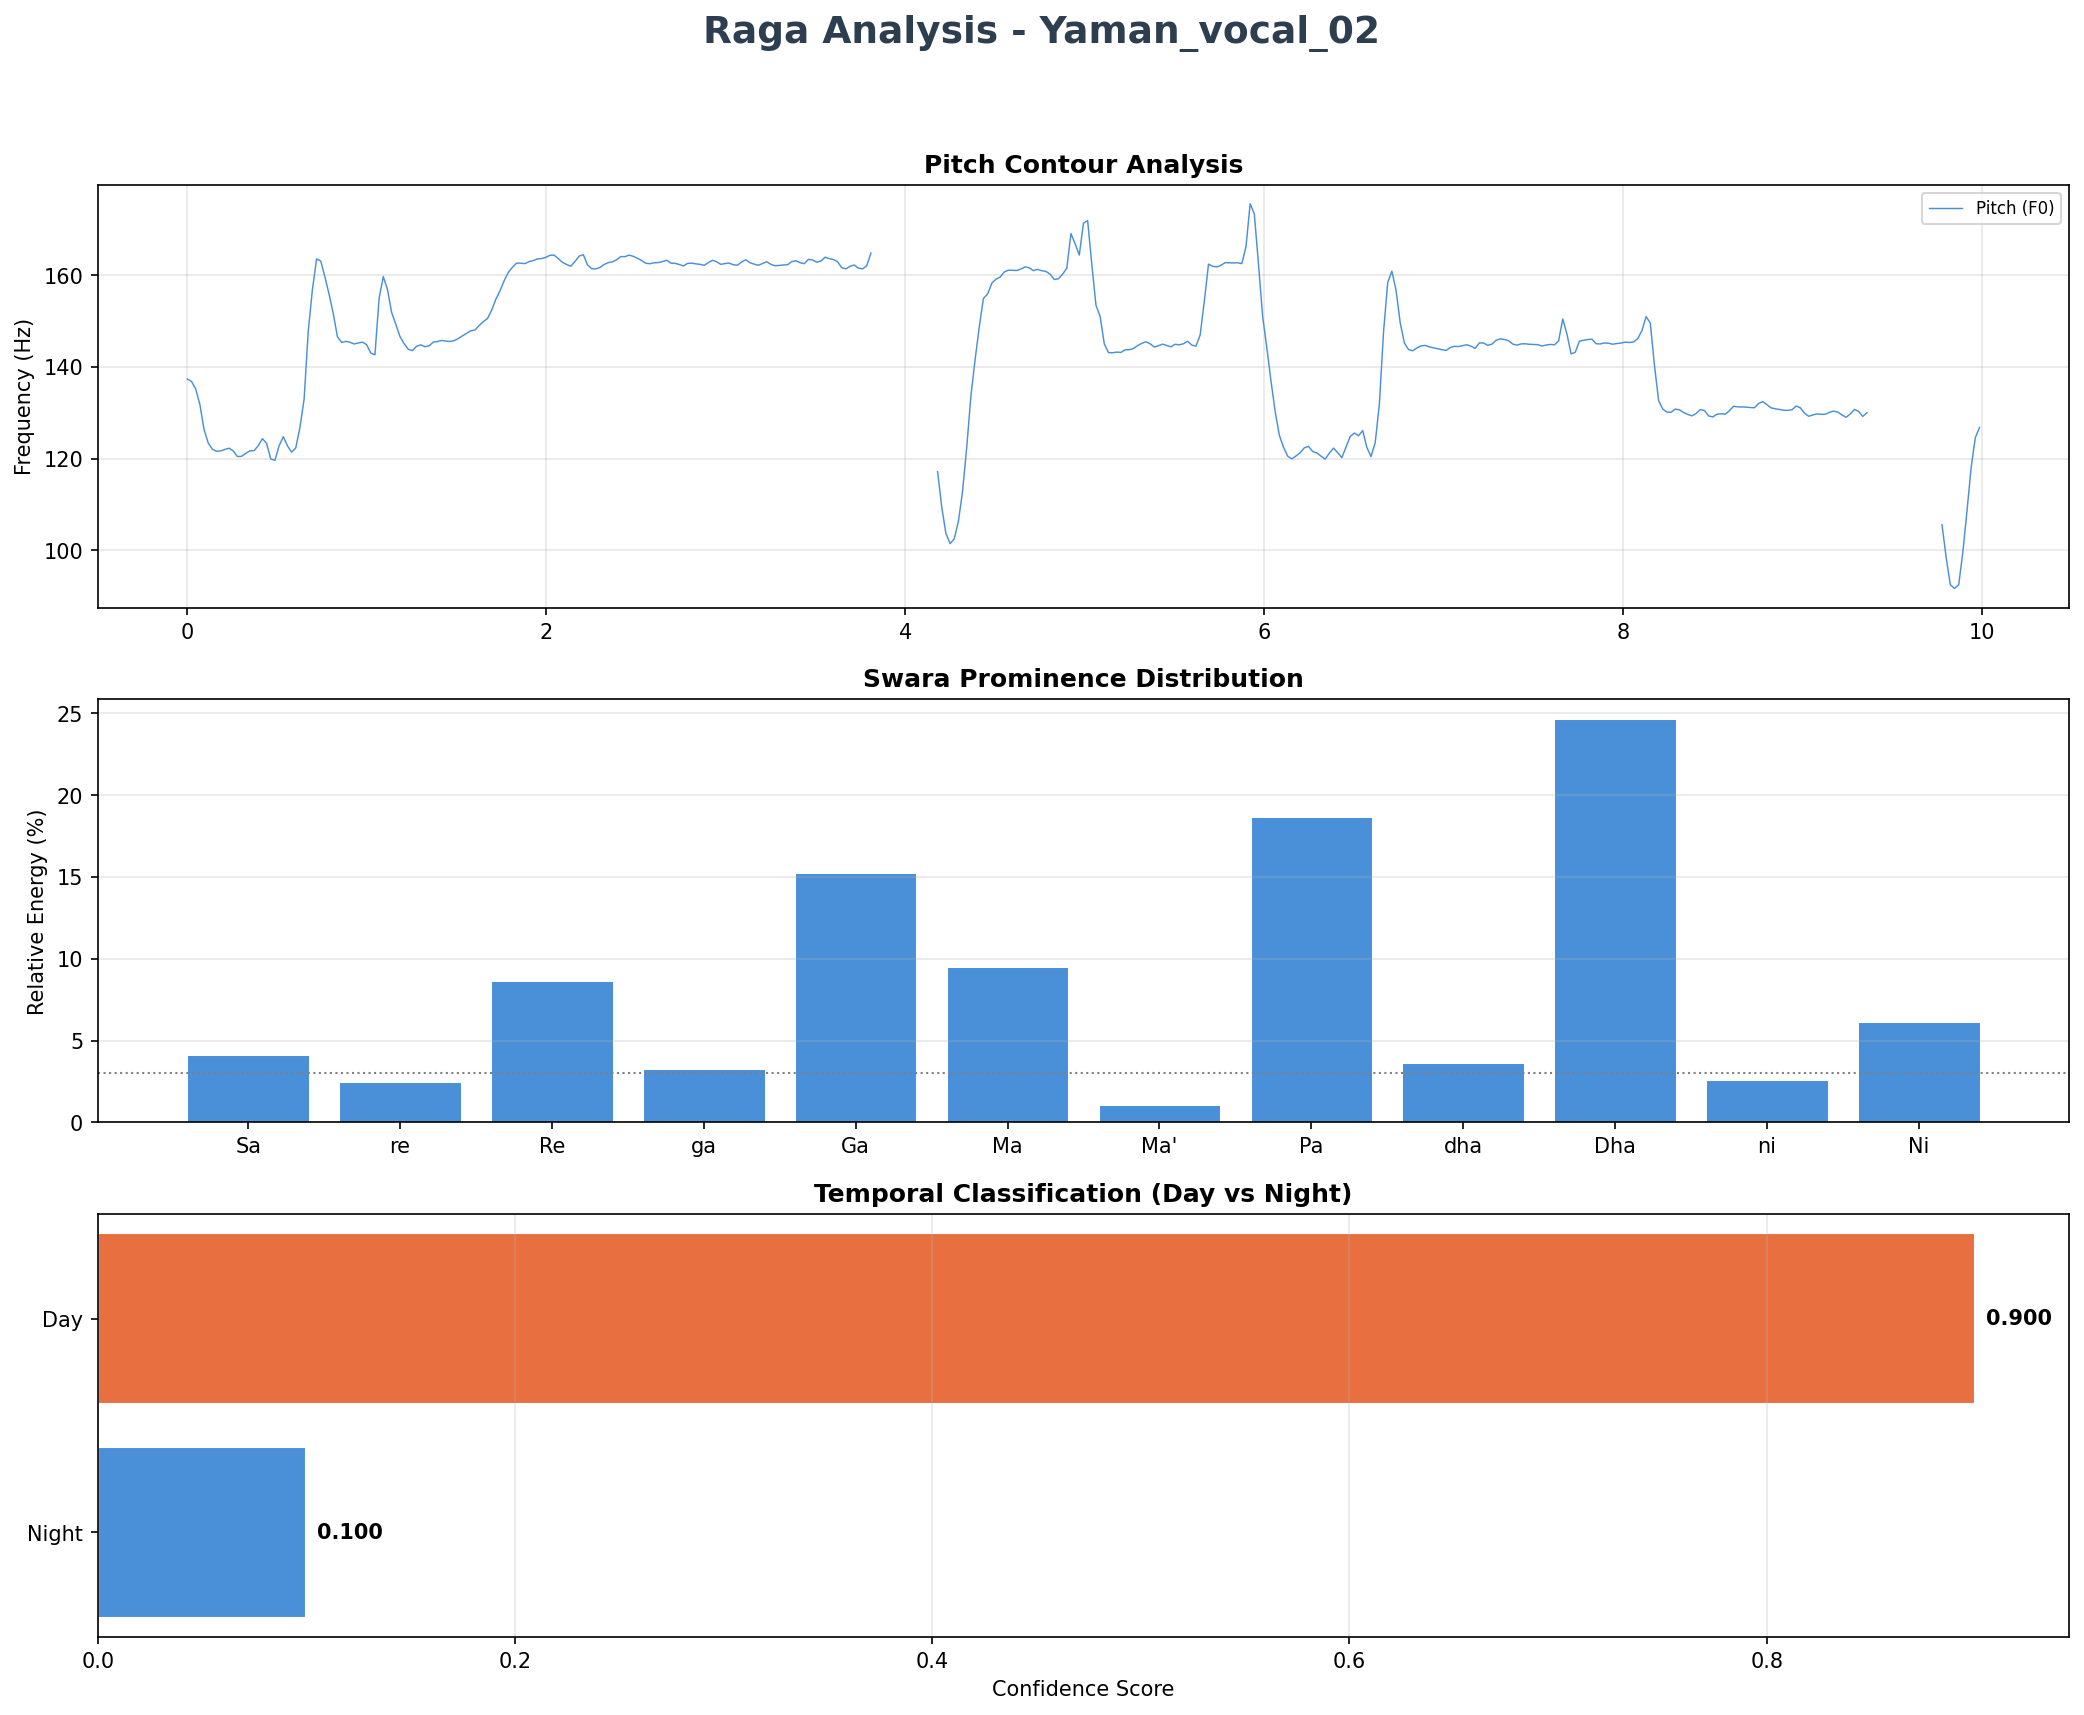
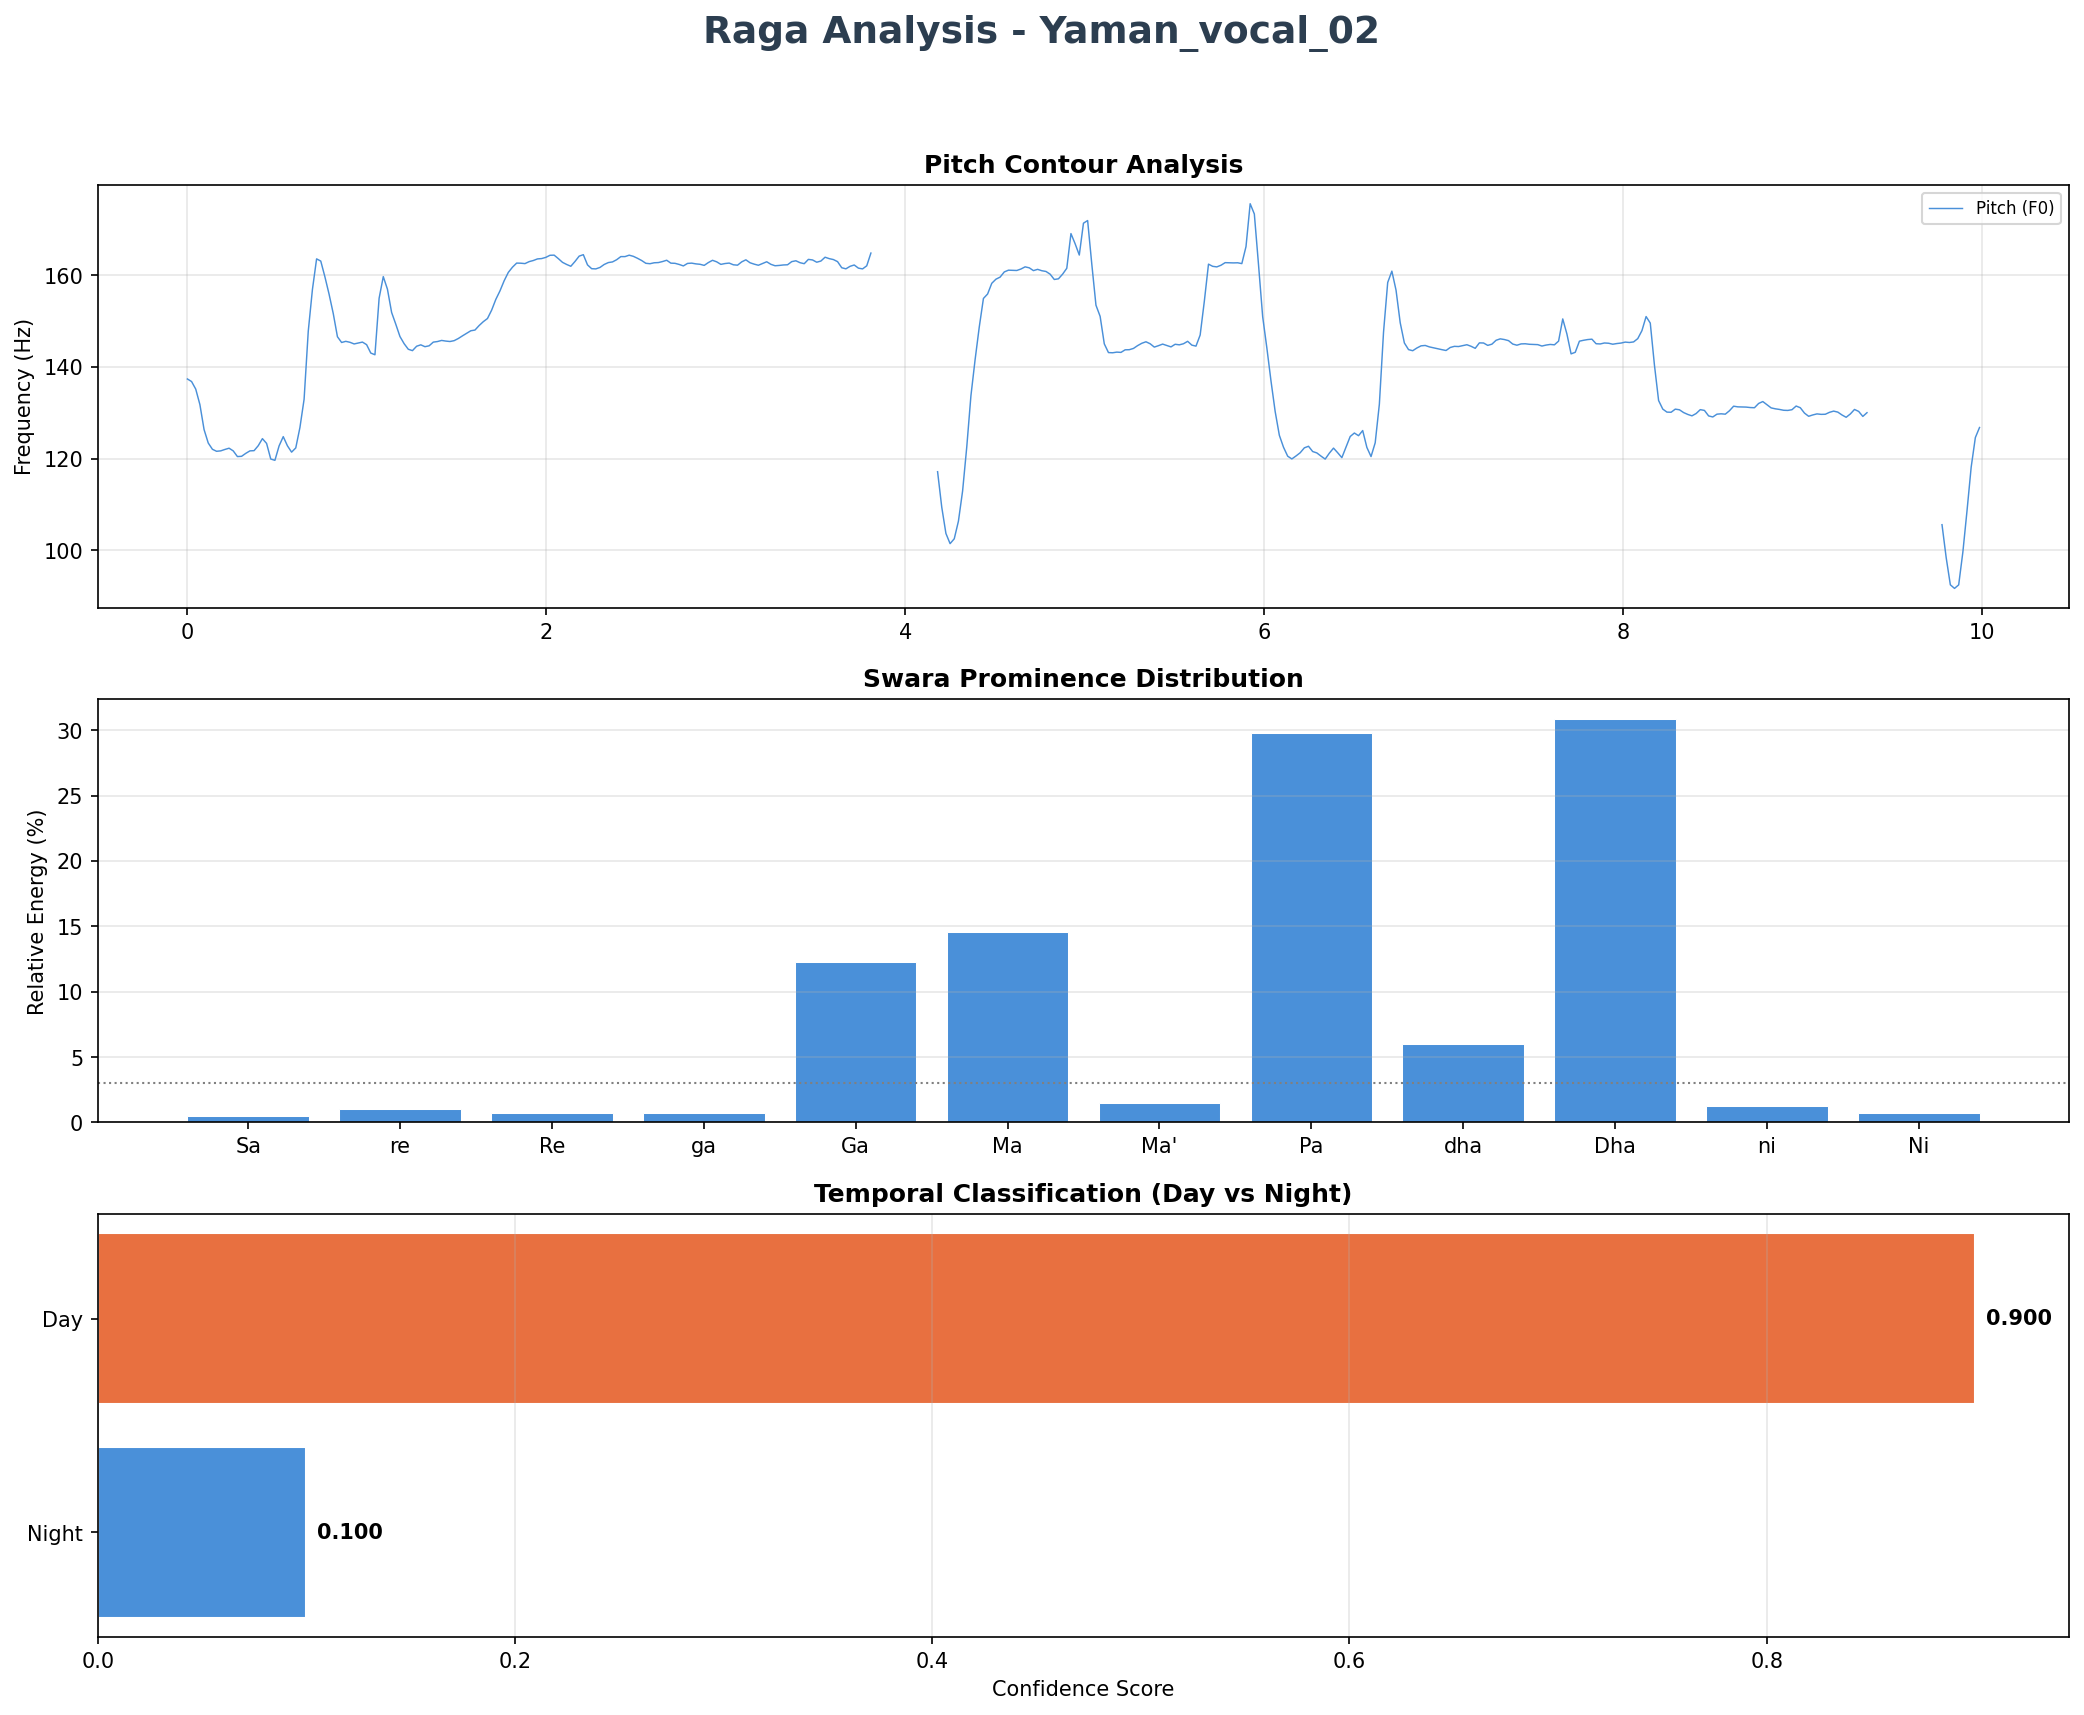
loader

diff --git a/frontend/src/App.jsx b/frontend/src/App.jsx
@@ -138,6 +138,114 @@ const InteractiveSwaraChart = ({ distribution }) => {
   );
 };
 
+const CyberLoader = () => {
+  const [progress, setProgress] = useState(0);
+  const [log, setLog] = useState("SAMPLING");
+  const [isShattered, setIsShattered] = useState(false);
+  const hudRef = useRef(null);
+  
+  const logs = ["SAMPLING", "TUNING", "SYNCING", "MASTERING", "ANALYSING"];
+  const notes = ["♩", "♪", "♫", "♬", "♭", "♮", "♯"];
+
+  useEffect(() => {
+    const interval = setInterval(() => {
+      setProgress(prev => {
+        if (prev >= 98) return prev;
+        const next = prev + Math.floor(Math.random() * 2) + 1;
+        return next > 98 ? 98 : next;
+      });
+    }, 150);
+
+    return () => clearInterval(interval);
+  }, []);
+
+  useEffect(() => {
+    if (progress > 85) {
+      setLog("ANALYSING");
+    } else if (progress % 20 === 0) {
+      setLog(logs[Math.floor(Math.random() * logs.length)]);
+    }
+    createMusicNote();
+  }, [progress]);
+
+  const createMusicNote = () => {
+    if (!hudRef.current) return;
+    const noteEl = document.createElement('div');
+    noteEl.className = 'musical-note';
+    noteEl.innerText = notes[Math.floor(Math.random() * notes.length)];
+    
+    const angle = Math.random() * Math.PI * 2;
+    const dist = 80 + Math.random() * 40;
+    
+    noteEl.style.position = 'absolute';
+    noteEl.style.left = `calc(50% + ${Math.cos(angle) * dist}px)`;
+    noteEl.style.top = `calc(50% + ${Math.sin(angle) * dist}px)`;
+    noteEl.style.color = '#00f2ff';
+    noteEl.style.fontSize = '18px';
+    noteEl.style.textShadow = '0 0 5px #00f2ff';
+    noteEl.style.pointerEvents = 'none';
+    
+    hudRef.current.appendChild(noteEl);
+
+    const randomRotation = Math.random() * 40 - 20; 
+    noteEl.animate([
+      { opacity: 0, transform: `translateY(0) rotate(0deg)` },
+      { opacity: 1, transform: `translateY(-25px) rotate(${randomRotation}deg)` },
+      { opacity: 0, transform: `translateY(-50px) rotate(${randomRotation * 2}deg)` }
+    ], { 
+      duration: 1200, 
+      easing: 'ease-out' 
+    }).onfinish = () => noteEl.remove();
+  };
+
+  return (
+    <div className="cyber-loader-overlay">
+      <style>{`
+        .cyber-loader-overlay {
+          position: fixed; top: 0; left: 0; width: 100vw; height: 100vh;
+          background: rgba(2, 11, 16, 0.95);
+          display: flex; justify-content: center; align-items: center;
+          z-index: 9999; overflow: hidden;
+        }
+        .hud-container {
+          position: relative; width: 300px; height: 300px;
+          display: flex; justify-content: center; align-items: center;
+          animation: bootUp 1s cubic-bezier(0.1, 0.9, 0.2, 1);
+        }
+        .ring-outer {
+          position: absolute; width: 280px; height: 280px; border-radius: 50%;
+          border: 2px solid transparent; border-top: 3px solid #00f2ff;
+          border-bottom: 3px solid #00f2ff; animation: rotate 4s linear infinite;
+          filter: drop-shadow(0 0 10px #00f2ff);
+        }
+        .ring-middle {
+          position: absolute; width: 240px; height: 240px; border-radius: 50%;
+          border: 2px dashed rgba(0, 242, 255, 0.5); animation: rotate 8s linear infinite reverse;
+        }
+        .core {
+          position: relative; width: 180px; height: 180px;
+          background: radial-gradient(circle, rgba(0, 242, 255, 0.1) 0%, transparent 70%);
+          border-radius: 50%; display: flex; flex-direction: column;
+          justify-content: center; align-items: center; color: #00f2ff;
+          text-shadow: 0 0 10px #00f2ff; font-family: monospace;
+        }
+        .percent { font-size: 2.5rem; font-weight: bold; }
+        .status-text { font-size: 0.6rem; letter-spacing: 4px; text-transform: uppercase; margin-top: 5px; }
+        @keyframes bootUp { 0% { transform: scale(0); opacity: 0; } 100% { transform: scale(1); opacity: 1; } }
+        @keyframes rotate { 100% { transform: rotate(360deg); } }
+      `}</style>
+      <div className="hud-container" ref={hudRef}>
+        <div className="ring-outer"></div>
+        <div className="ring-middle"></div>
+        <div className="core">
+          <div className="percent">{progress}%</div>
+          <div className="status-text">{log}</div>
+        </div>
+      </div>
+    </div>
+  );
+};
+
 const BulkResultsView = ({ data, files, handleDownloadPDF, pdfLoading }) => {
   const dayCount = data.filter(r => r.prediction.includes('Day')).length;
   const nightCount = data.filter(r => r.prediction.includes('Night')).length;
@@ -531,6 +639,8 @@ const App = () => {
         <p className="subtitle">Enterprise Neural Intelligence</p>
         <h1 className="main-title">RAGA VISION <span className="neural-text">BULK EDITION</span></h1>
       </header>
+
+      {loading && <CyberLoader />}
 
       <div className="main-layout">
         <section className="card glass-card">
